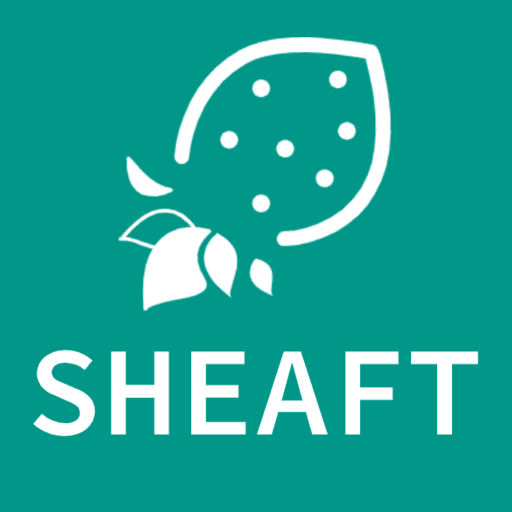
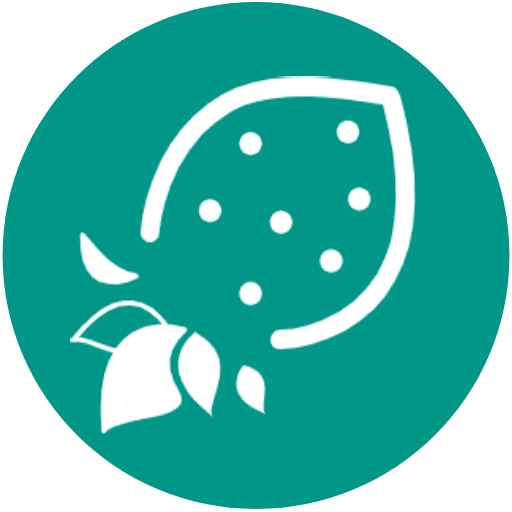
Change - Modification des icones

diff --git a/src/template.html b/src/template.html
@@ -7,18 +7,21 @@
 		<meta charset="UTF-8" />
 		<meta name="viewport" content="width=device-width, initial-scale=1.0" />
 		<meta http-equiv="X-UA-Compatible" content="ie=edge" />
-
-		<link rel="apple-touch-icon" sizes="180x180" href="/assets/apple-touch-icon.png?v=00BjLdbNG6">
-		<link rel="icon" type="image/png" sizes="32x32" href="/assets/favicon-32x32.png?v=00BjLdbNG6">
-		<link rel="icon" type="image/png" sizes="194x194" href="/assets/favicon-194x194.png?v=00BjLdbNG6">
-		<link rel="icon" type="image/png" sizes="192x192" href="/assets/android-chrome-192x192.png?v=00BjLdbNG6">
-		<link rel="icon" type="image/png" sizes="16x16" href="/assets/favicon-16x16.png?v=00BjLdbNG6">
-		<link rel="mask-icon" href="/assets/safari-pinned-tab.svg?v=00BjLdbNG6" color="#009688">
-		<link rel="shortcut icon" href="/assets/favicon.ico?v=00BjLdbNG6">
-		<meta name="apple-mobile-web-app-title" content="Sheaft - Consommer local, plus facilement">
-		<meta name="application-name" content="Sheaft - Consommer local, plus facilement">
-		<meta name="msapplication-TileColor" content="#ffffff">
-		<meta name="msapplication-config" content="/assets/browserconfig.xml?v=00BjLdbNG6">
+		
+		<link rel="apple-touch-icon" sizes="60x60" href="/assets/apple-touch-icon-60x60.png?v=lk24Jx578Cj">
+		<link rel="apple-touch-icon" sizes="76x76" href="/assets/apple-touch-icon-76x76.png?v=lk24Jx578Cj">
+		<link rel="apple-touch-icon" sizes="120x120" href="/assets/apple-touch-icon-120x120.png?v=lk24Jx578Cj">
+		<link rel="apple-touch-icon" sizes="152x152" href="/assets/apple-touch-icon-152x152.png?v=lk24Jx578Cj">
+		<link rel="apple-touch-icon" sizes="180x180" href="/assets/apple-touch-icon-180x180.png?v=lk24Jx578Cj">
+		<link rel="icon" type="image/png" sizes="32x32" href="/assets/favicon-32x32.png?v=lk24Jx578Cj">
+		<link rel="icon" type="image/png" sizes="192x192" href="/assets/android-chrome-192x192.png?v=lk24Jx578Cj">
+		<link rel="icon" type="image/png" sizes="16x16" href="/assets/favicon-16x16.png?v=lk24Jx578Cj">
+		<link rel="mask-icon" href="/assets/safari-pinned-tab.svg?v=lk24Jx578Cj" color="#009688">
+		<link rel="shortcut icon" href="/assets/favicon.ico?v=lk24Jx578Cj">
+		<meta name="apple-mobile-web-app-title" content="Sheaft">
+		<meta name="application-name" content="Sheaft">
+		<meta name="msapplication-TileColor" content="#009688">
+		<meta name="msapplication-config" content="/assets/browserconfig.xml?v=lk24Jx578Cj">
 		<meta name="theme-color" content="#009688">
 		<meta
 			name="description"
@@ -75,6 +78,7 @@
         }
       }
     </script>
+    <link rel="stylesheet" href="global.css" />
     <!-- Sapper generates a <style> tag containing critical CSS
 	     for the current page. CSS for the rest of the app is
 	     lazily loaded when it precaches secondary pages -->
